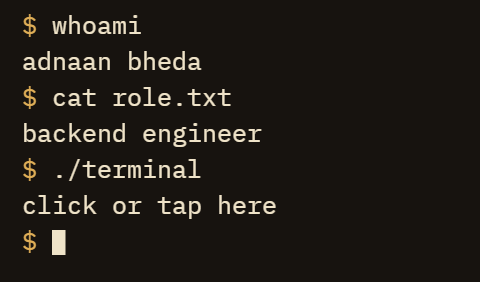
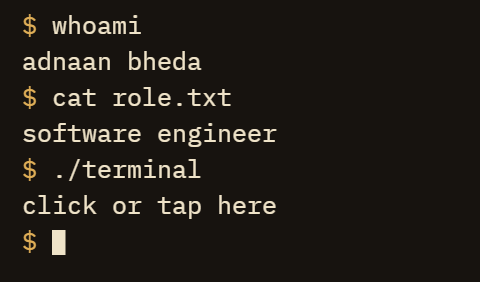
chore: change the role to software engineer

Changed region(s): [[0.0312, 0.4255, 0.5938, 0.539]]

diff --git a/src/index.html b/src/index.html
@@ -39,11 +39,11 @@
 
     <link rel="icon" href="/favicon.ico" type="image/x-icon">
     <title>Adnaan Bheda</title>
-    <meta name="description" content="Adnaan Bheda, backend engineer. A 3D room with a working terminal on the monitor: type or tap a command to see projects, work and CV.">
+    <meta name="description" content="Adnaan Bheda, software engineer. A 3D room with a working terminal on the monitor: type or tap a command to see projects, work and CV.">
     <meta name="theme-color" content="#8ea6b2">
     <meta property="og:type" content="website">
     <meta property="og:title" content="Adnaan Bheda">
-    <meta property="og:description" content="Backend engineer. A 3D room with a working terminal on the monitor.">
+    <meta property="og:description" content="Software engineer. A 3D room with a working terminal on the monitor.">
     <meta property="og:url" content="https://portfolio.adnaan.me">
     <meta name="twitter:card" content="summary">
 </head>

diff --git a/src/index.jsx b/src/index.jsx
@@ -153,7 +153,7 @@ function App() {
         {MoodPanel && <Suspense fallback={null}><MoodPanel /></Suspense>}
         <header className={isZoomed || atDesk ? 'nameplate hidden' : 'nameplate'}>
             <h1>Adnaan Bheda</h1>
-            <p>Backend engineer</p>
+            <p>Software Engineer</p>
         </header>
         {!isZoomed && (
             <button type="button" className="mood-toggle" onClick={() => {

diff --git a/src/commands.js b/src/commands.js
@@ -57,7 +57,7 @@ const help = () => ({
 const whoami = () => ({
     lines: [
         text('Adnaan Bheda'),
-        text('Backend engineer. I have stopped spam at Atlassian, scaled'),
+        text('Software engineer. I have stopped spam at Atlassian, scaled'),
         text('healthcare APIs at Klinify and run routing at Roado.'),
         text(''),
         run('projects', 'see what I have built'),
